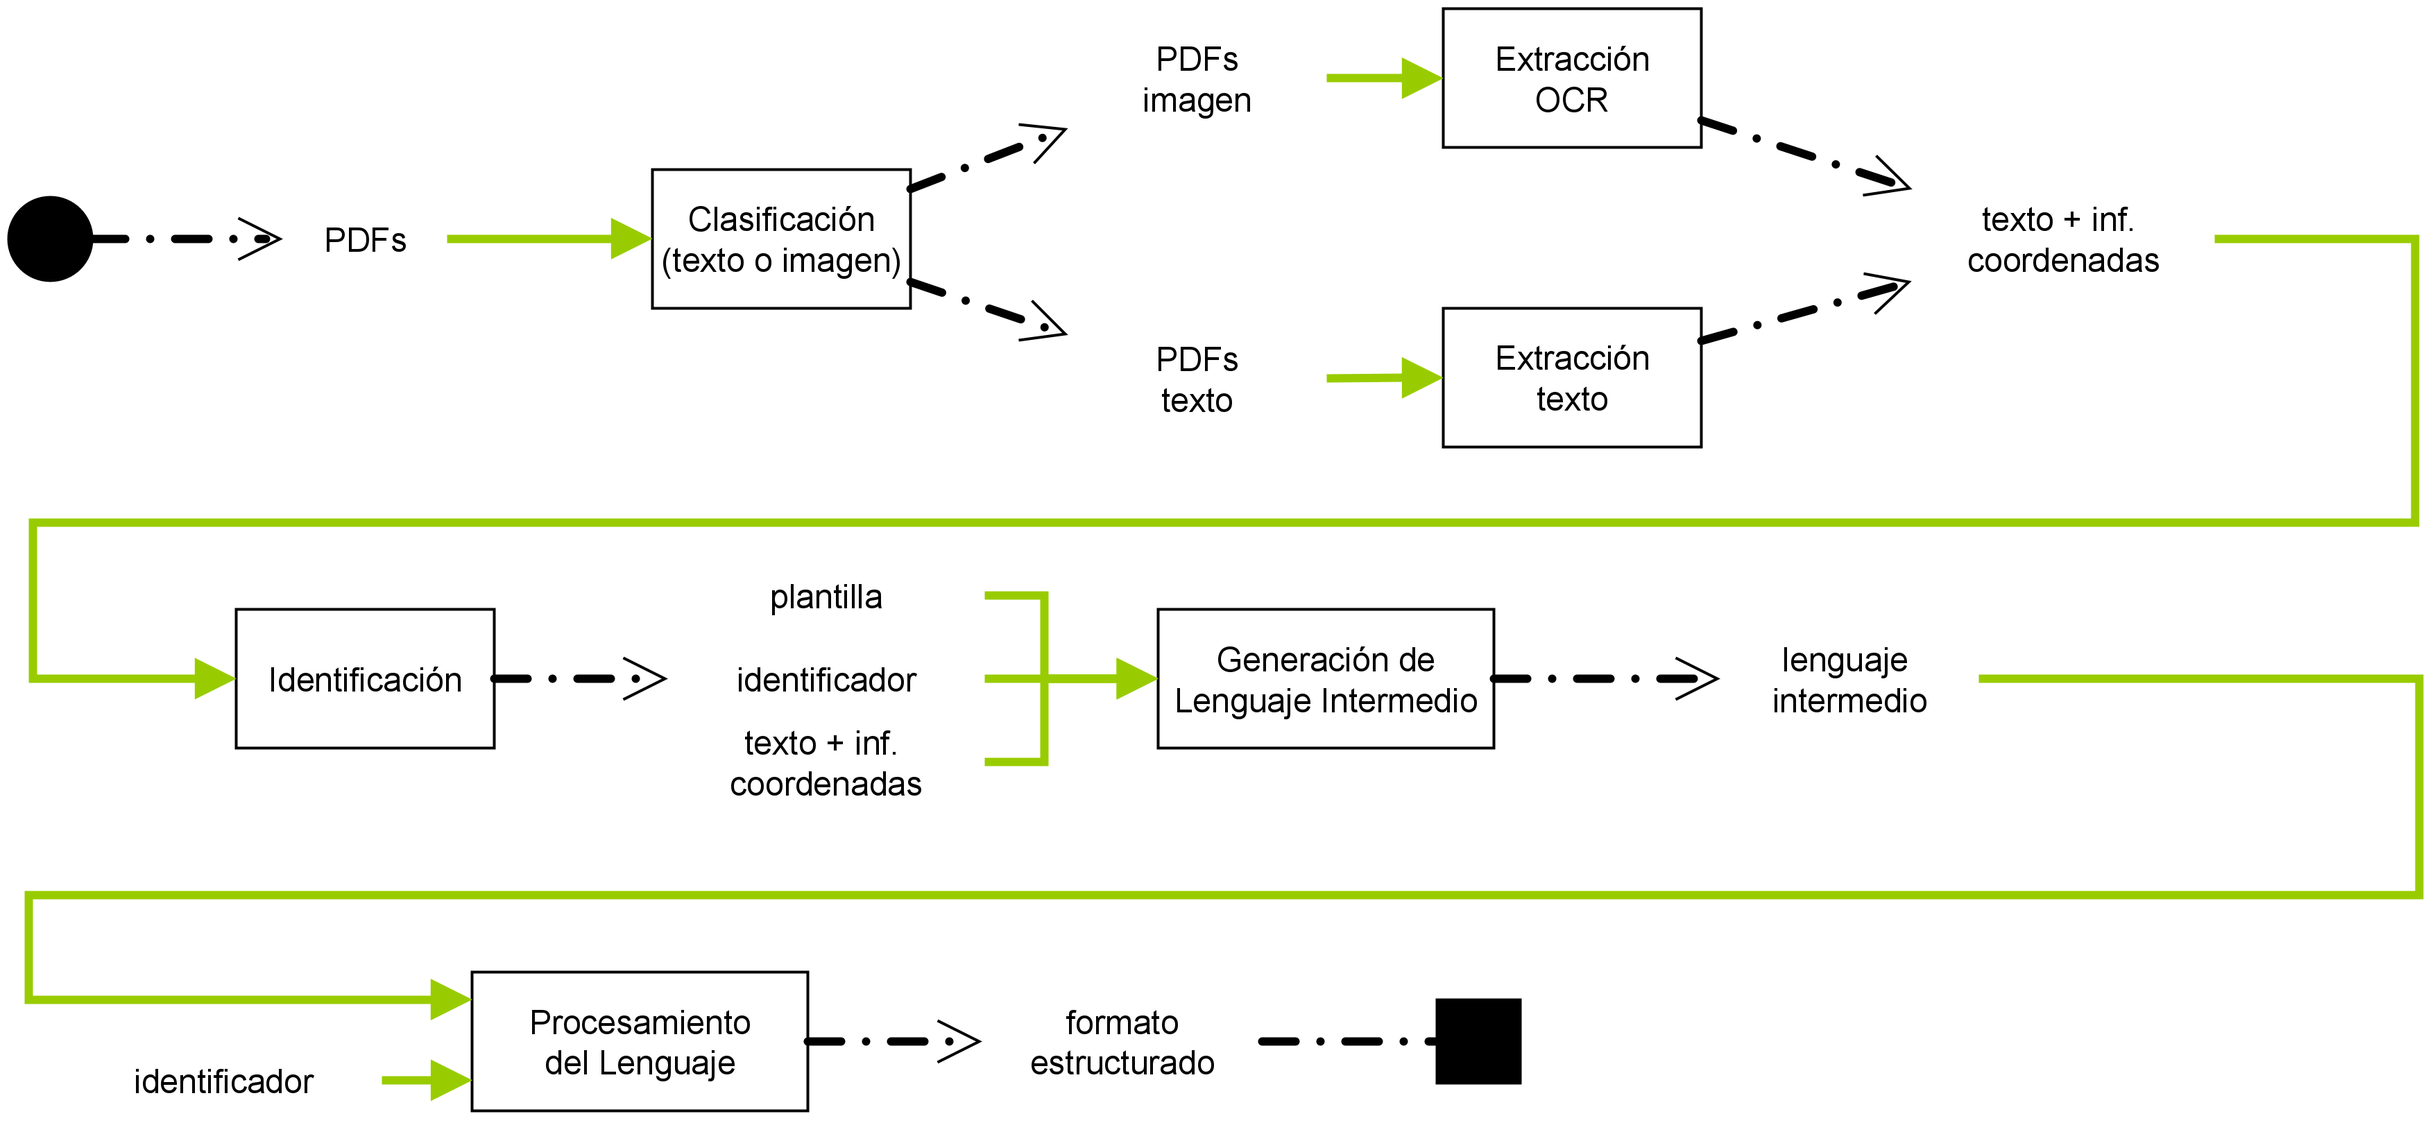
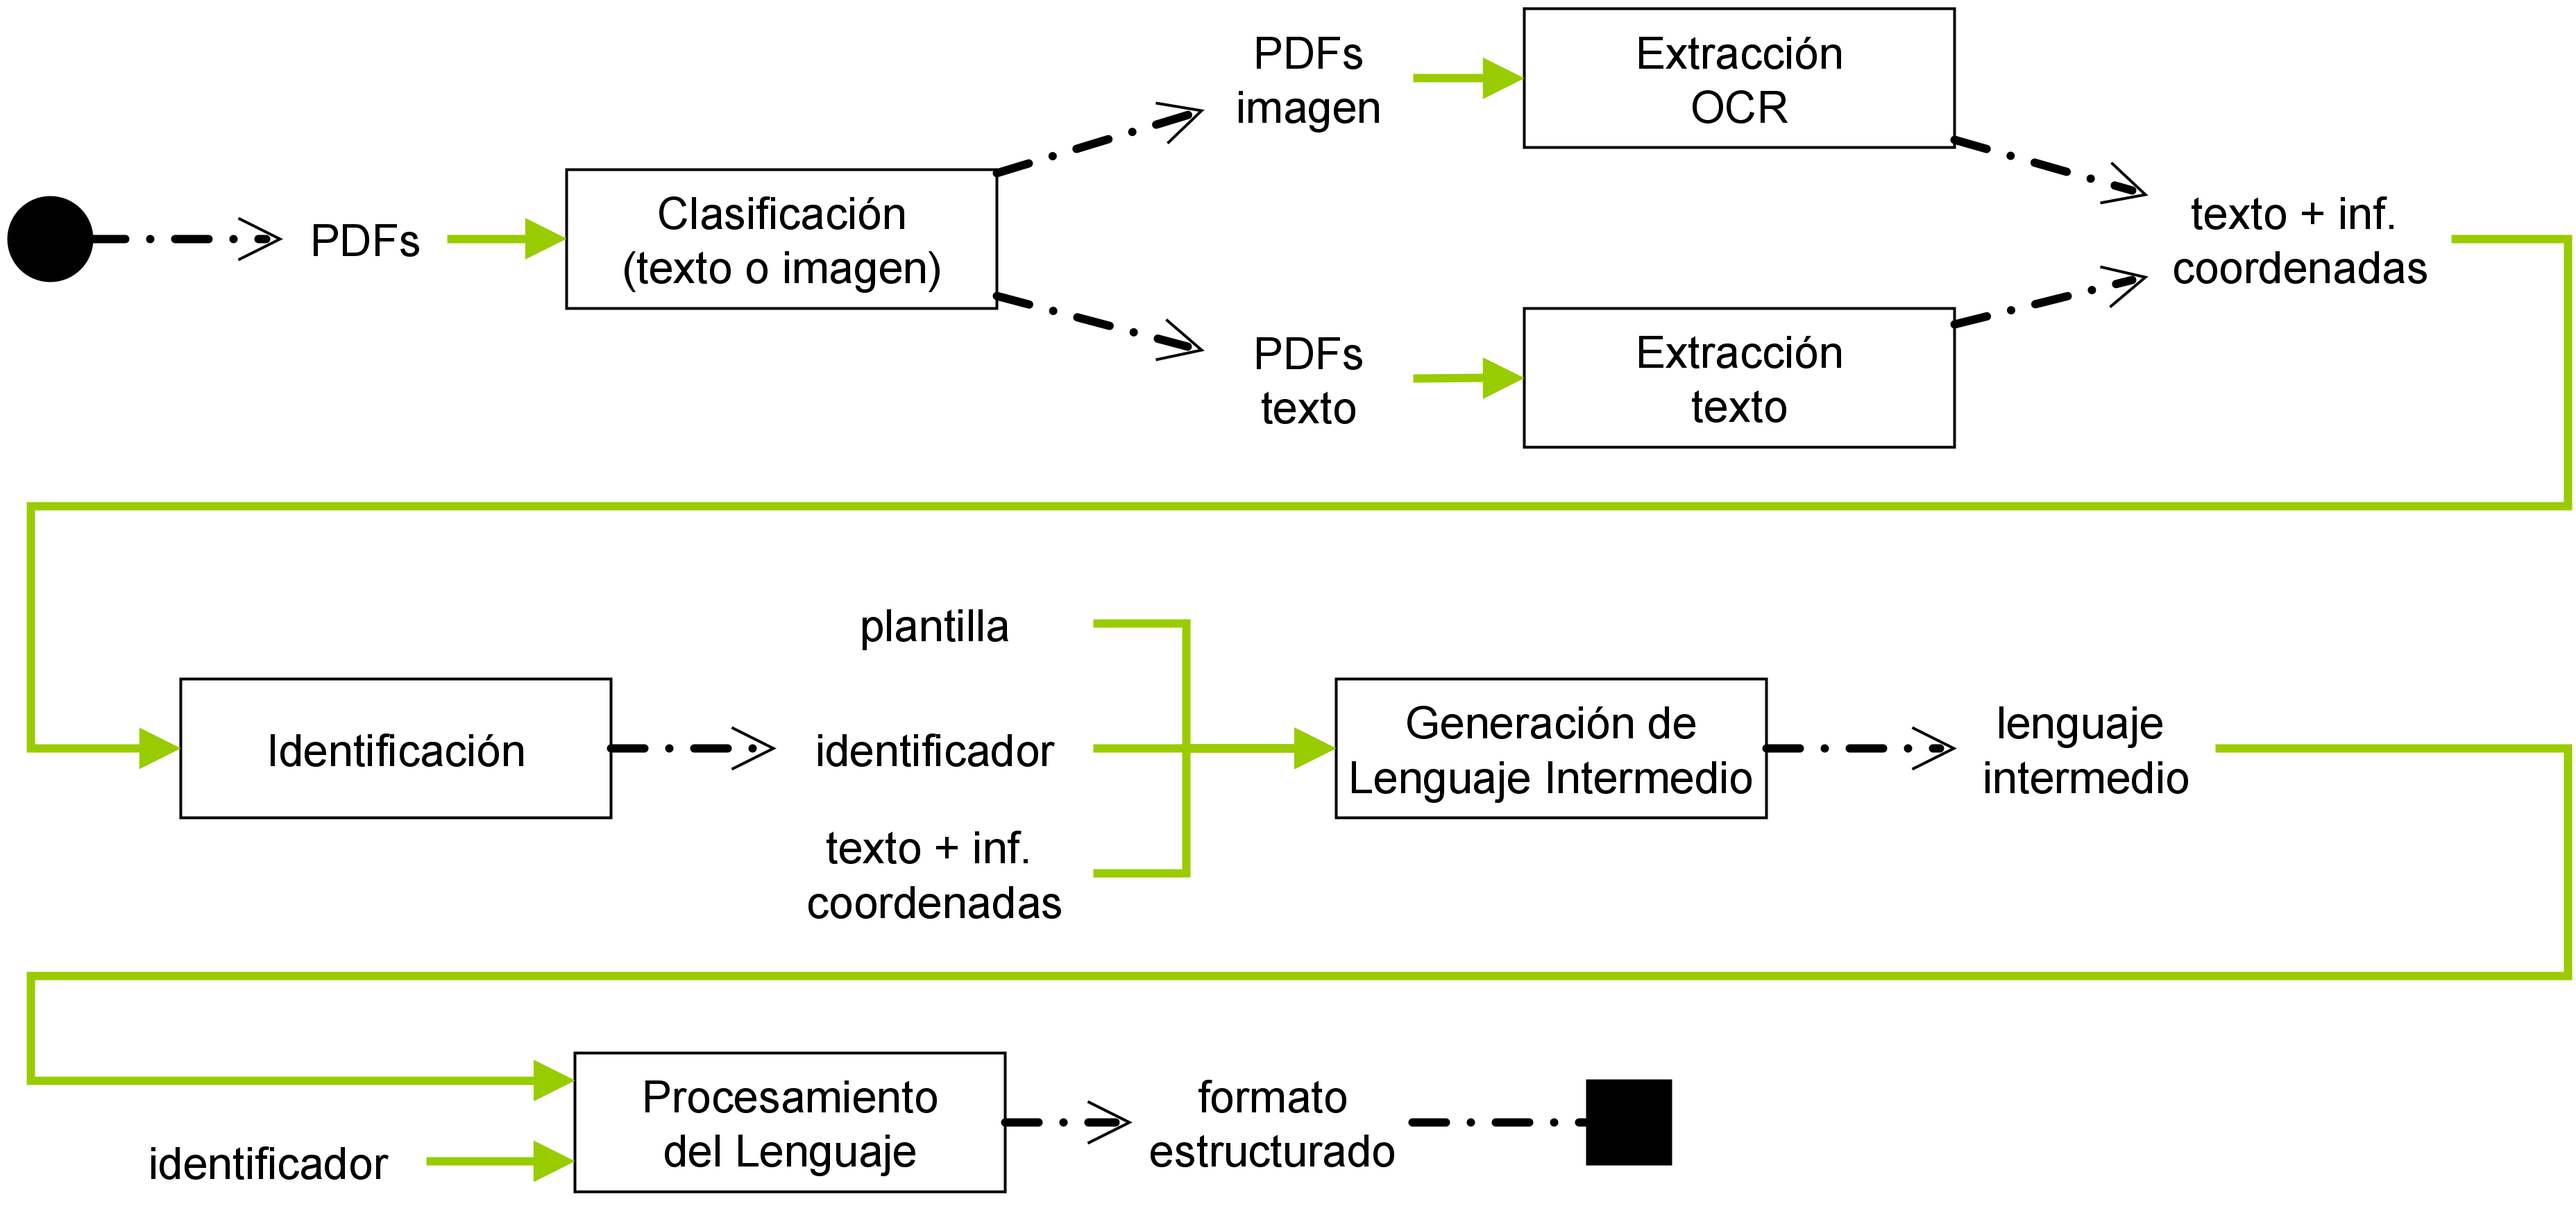
Actualiza secciÃn implementaciÃn

diff --git a/contido/h-implementacion.tex b/contido/h-implementacion.tex
@@ -5,28 +5,72 @@
 \chapter{Diseño e Implementación}
 \label{chap:implemetación}
 
-\lettrine{E}{ste} capítulo describe el diseño y la implementación de la solución construida. El sistema implementa un flujo de datos que para el que se ha recurrido a tres lenguajes de programación, Python, C y Bash.
+\lettrine{E}{ste} capítulo describe el diseño y la implementación de la solución construida. El sistema implementa un flujo de datos o pipeline. La construcción se ha realizado con tres lenguajes de programación, Python, C y Bash.
 
 \section{Etapas del sistema}
 
-Los datos son sometidos a un proceso por etapas tal como se ve en \ref{vision-general-del-sistema}. A continuación se detalla cada una de estas etapas.
+Los datos son sometidos a un proceso por etapas tal como se ve en \ref{fig:vision-general-del-sistema}. A continuación se detalla cada una de estas etapas.
 
 \begin{figure}[hp!]
     \centering
     \includegraphics[width=1.0\textwidth]{imaxes/h-implementacion/vision-general-del-sistema-2}
-    \caption{Visión general del sistema}
+    \caption{Visión general del pipeline del sistema}
     \label{fig:vision-general-del-sistema}
 \end{figure}
 
-% TODO descripción del diagrama
-% TODO en la aplicación se mantiene el estado interno por medio del sistema de ficheros
+El proceso comienza cuando se proporcionan al sistema un nuevo conjunto de ficheros PDF. La primera acción realiza la clasificación, según el tipo contenido de los PDF sean páginas con texto o con imágenes. El sistema mantienen el estado colocando los ficheros en las rutas apropiadas. 
+
+A continuación se procede a la extracción de la información de los documentos. Además del propio texto, directamente visible, se genera la información de coordenadas que se utilizará para seleccionar los contenidos relevantes.
+
+El proceso sigue con la identificación de los documentos con el objetivo de poder seleccionar la plantilla correcta, si está dada de alta en el sistema. 
+
+Con toda la información obtenida se puede comenzar la generación del lenguaje intermedio de cada página. Para ello, la información de entrada es la plantilla, el código del identificador encontrado y el texto con las coordenadas de la etapa de extracción.
+
+Por último se transforma el lenguaje intermedio y se genera toda la información de salida del sistema. El identificador es utilizado para seleccionar el parser necesario para tratar el documento. Todos los datos de salida son movidos a un directorio de resultados y se genera la marca de finalización del tratamiento.
+
+De todas estas tareas se ocupa el engine del sistema, que invoca uno a uno los scripts correspondientes a cada tarea haciendo evolucionar el trabajo.
+
+\subsection{Creación de un nuevo trabajo}
+
+Si bien la imagen \ref{fig:vision-general-del-sistema} representa el flujo de datos a nivel general, para comenzar el tratamiento se sigue un proceso formalizado en tres pasos. 
+
+Primero el Sistema Externo solicita un identificador para un nuevo trabajo. En este momento el motor genera el código y lo utiliza para crear las rutas de directorios necesarias para ubicar los resultados de cada etapa. El identificador se obtiene de la fecha UTC actual en segundos y nanosegundos. Se recurre al comando \verb|date| para ello, como se muestra en \ref{lst:creacion-job-id}).
+
+\begin{lstlisting}[language=bash,caption={Obtención del identificador de un trabajo},label=lst:creacion-job-id]
+job_id=$(date -u +%s%6N)
+\end{lstlisting}
+
+Utilizando el identificador, el Sistema Externo formar el path estándar para un nuevo trabajo y debe copiar el comprimido allí. Por último se le debe indicar al motor que comience el procesamiento del trabajo para el id deseado.
 
 \subsection{Clasificación de los ficheros}
 
-Los PDF recibidos deben ser clasificados dependiendo de su contenido. En unos casos es posible utilizar directamente el texto del documento para los restantes se procederá a utilizar el software OCR.
+% TODO renombrado de los ficheros
 
-% TODO explicar en detalle como se hace la diferenciación
+Como primera acción para tratar correctamente los fichero se realiza un saneamiento de los nombres. Crear un nombrado homogénero evita problemas en la construcción de las rutas del sistema de ficheros. También se descartan los directorios que el fichero comprimido facilitado pudiera contener. Los ficheros se renombran secuencialmente.
 
+Los PDF recibidos deben ser clasificados dependiendo de su contenido. En unos casos es posible utilizar directamente el texto del documento. Para los restantes se procederá a utilizar el procedimiento OCR. La clasificación se realiza por medio de un test de extracción de texto y se busca una respuesta negativa en la salida.
+
+En \verb|extract-text.sh| se utiliza la herramienta de extracción de texto, \verb|pdftotext| sobre cada página de cada fichero. En \ref{lst:extraccion-text-inicial} se puede ver la orden utilizada.
+
+\begin{lstlisting}[language=bash,caption={Extracción tentativa del texto},label=lst:extraccion-text-inicial]
+for ((page=1; page<=$last_page; page++))
+do
+    page_number="$($engine_dir/fix-page-numbers.sh $page)"
+    pdftotext -f $page -l $page -layout "$line" "$n-$page_number.txt"
+done
+\end{lstlisting}
+
+Cuando un documento no contiene texto, el fichero creado únicamente contiene caracteres de salto de página, \verb|0x0C|, que son introducidos por \verb|pdftotext|. Estos caracteres pueden ser localizados mediando un editor hexadecimal, como se muestra en \ref{lst:deteccion-salto-pagina}. Tanto si se ejecuta el cuerpo del \verb|if| como del \verb|elif| se trata de un caso de imagen y el fichero es movido al directorio para los casos de imagen.
+
+\begin{lstlisting}[language=bash,caption={Detección del salto de página},label=lst:deteccion-salto-pagina]
+if [ "$(hexdump -e '1/1 "%02X\n"' $i | tr '\n' ' ')" = '0C ' ]
+then
+    mv $i $base_image_dir
+elif [ "$(hexdump -e '1/1 "%02X\n"' $i | tr '\n' ' ')" = '0C * ' ]
+then
+    mv $i $base_image_dir
+fi
+\end{lstlisting}
 
 \subsection{Extracción de datos}
 
@@ -70,13 +114,14 @@ Los PDF recibidos deben ser clasificados dependiendo de su contenido. En unos ca
 % TODO mostrar como es el formato de un fichero Flex y también Bison
 % TODO Mostrar como se utiliza la librería para generación de ficheros JSON
 % TODO Mencionar el pretty printing con jq
+% TODO explicar como es el flujo de información y por qué los terminales y no terminales llevan un tipo de dato en Bison
 
-\section{Creación de un engine modular}
+\subsection{Un engine modular}
+% TODO Detalle de la estructura de directorios considerada
 % TODO Se imita un modelo de procesamiento en batch
 % TODO Se generan códigos de identificación de los jobs recibidos. También marca final.
-% TODO Estructura de directorios considerada
-% TODO Flujo de la información
-% TODO explicar como es el flujo de información y por qué los terminales y no terminales llevan un tipo de dato en Bison
+
+El motor del sistema es el componente implementado en Bash. Esta decisión se tomó para facilitar el manejo de los ficheros dentro de la estructura de directorios. Además se utilizan herramientas en la consola, que sería más engorroso utilizar desde otros lenguajes de programación.
 
 \section{Compilación y despliegue}
 

diff --git a/contido/g-analisis.tex b/contido/g-analisis.tex
@@ -63,7 +63,7 @@ Se presentan a continuación los casos de uso de forma detallada:
 \begin{figure}[hp!]
 	\centering
 	\includegraphics[width=1.0\textwidth]{imaxes/g-analisis/casos-uso.png}
-	\caption{Casos de uso de la aplicación}
+	\caption{Casos de uso del software}
 	\label{fig:casos-de-uso}
 \end{figure}
 
